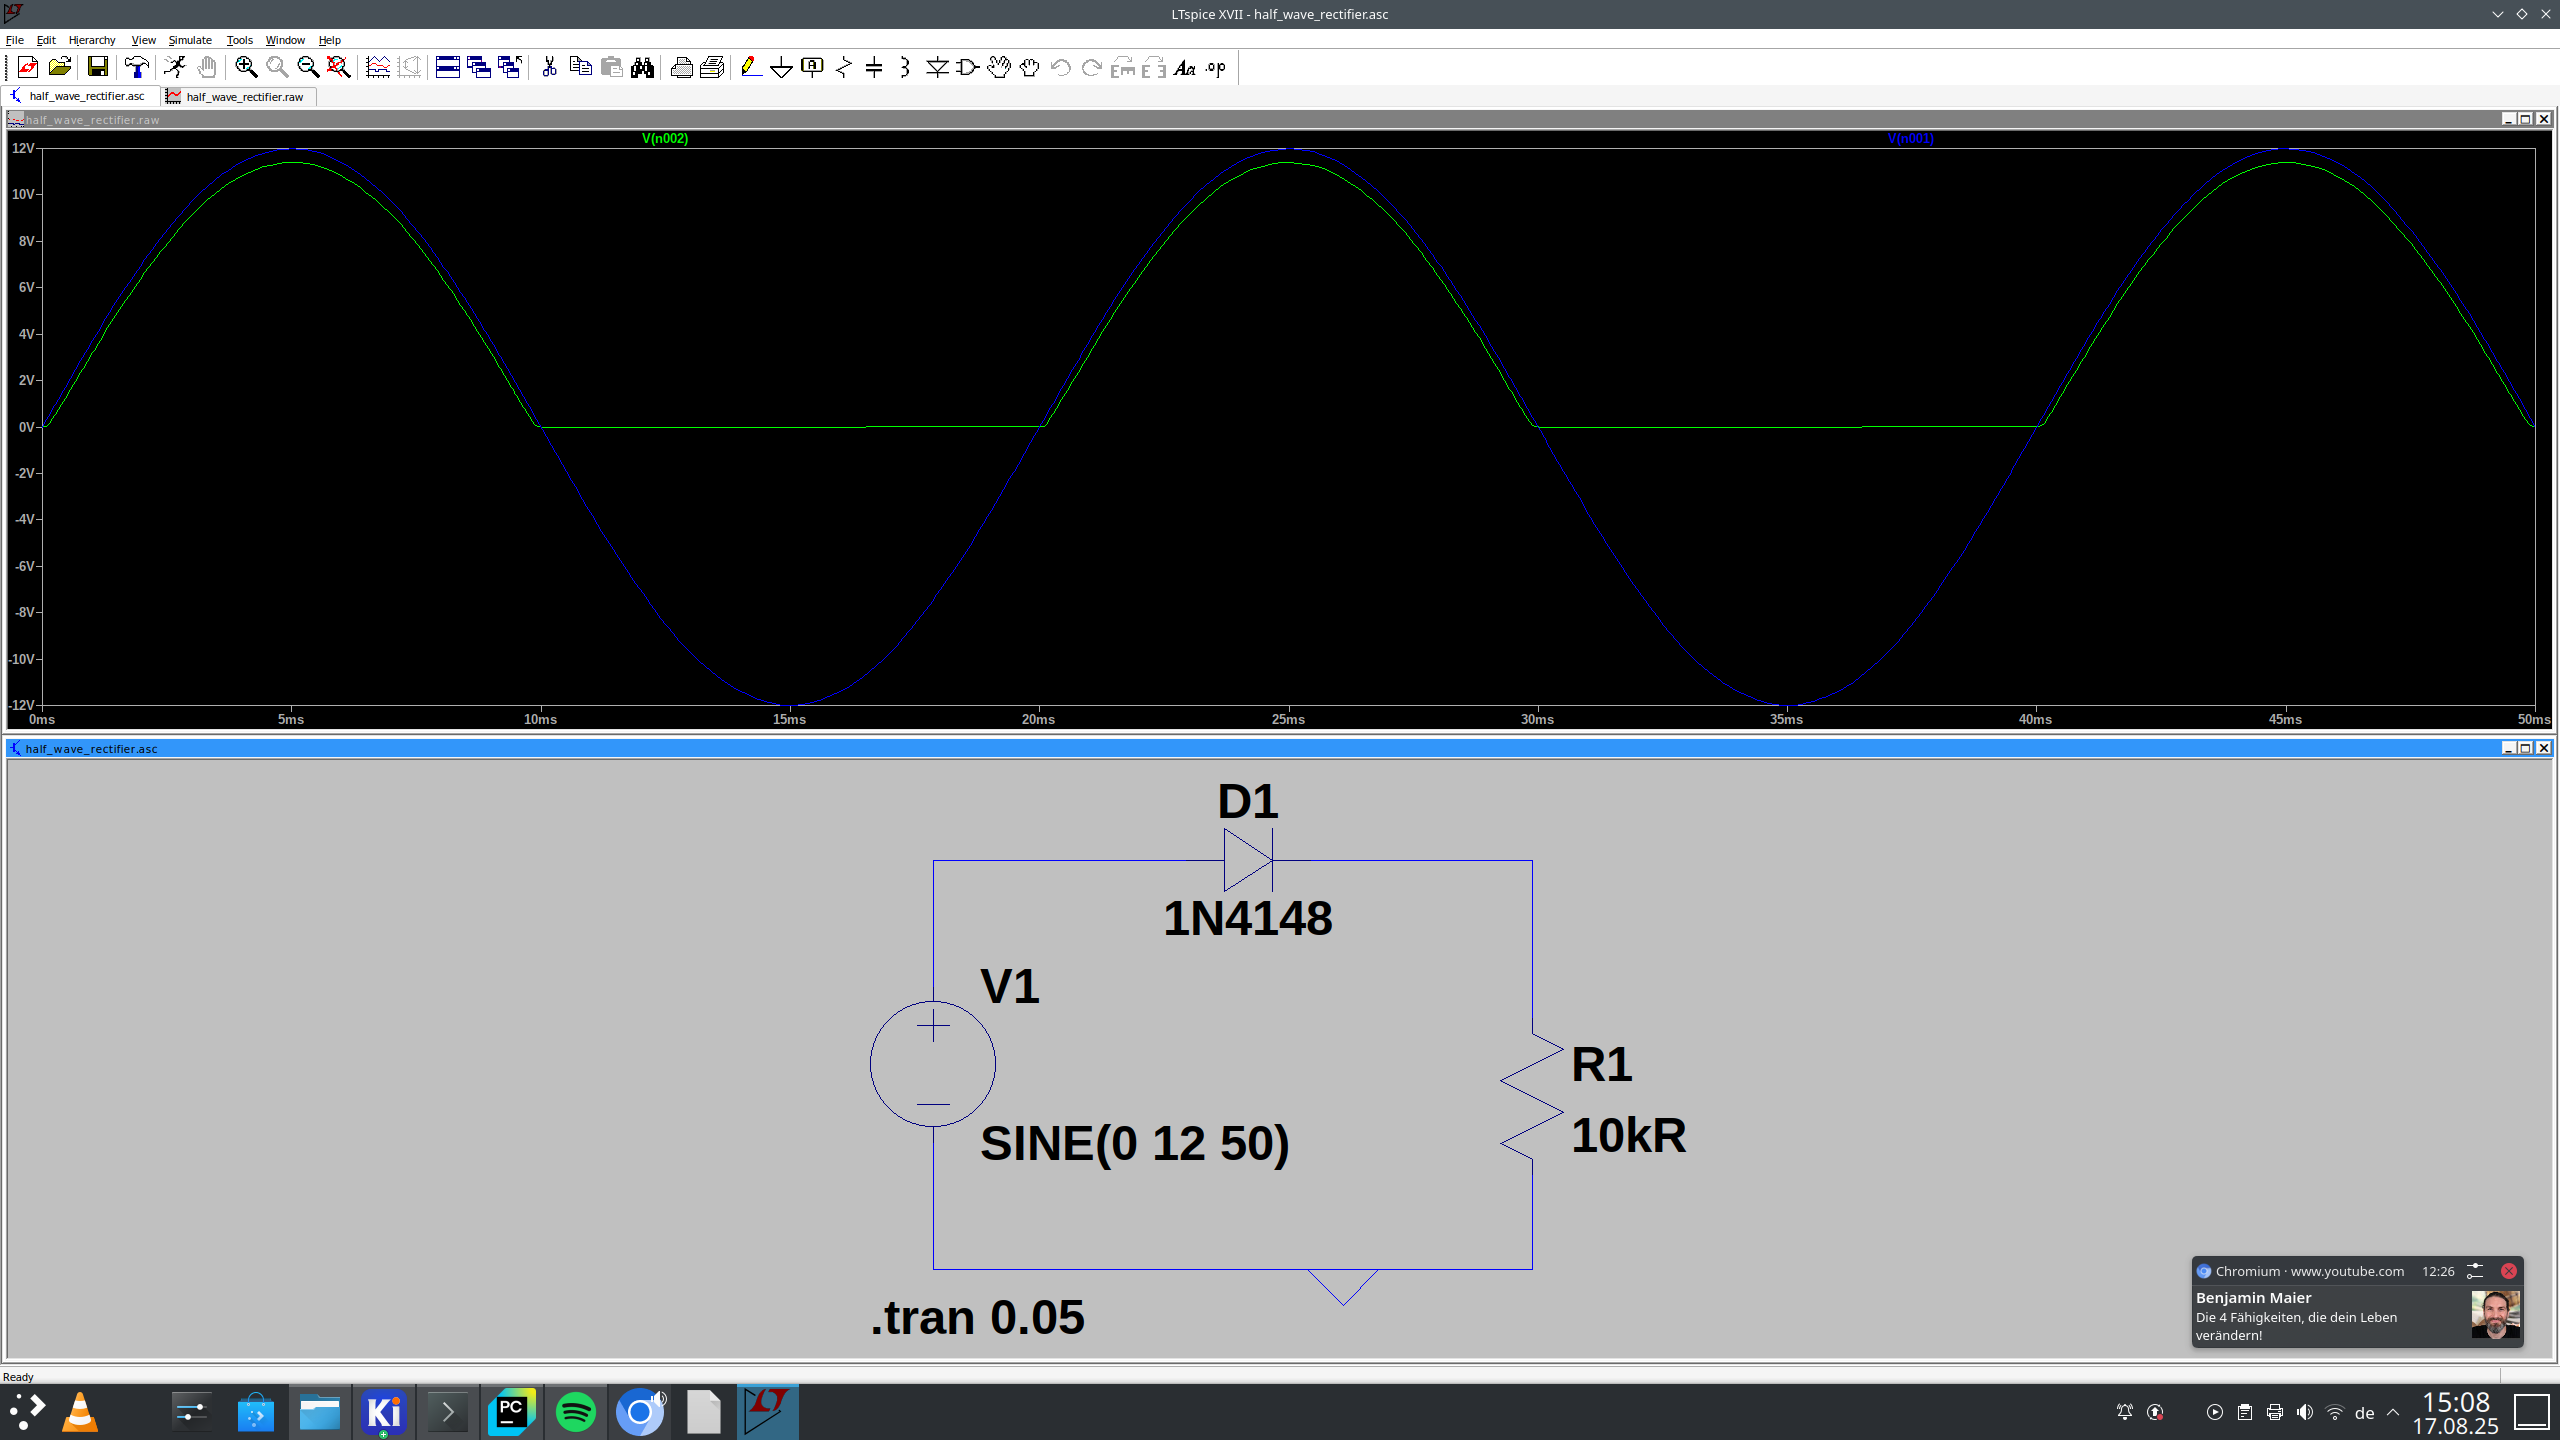
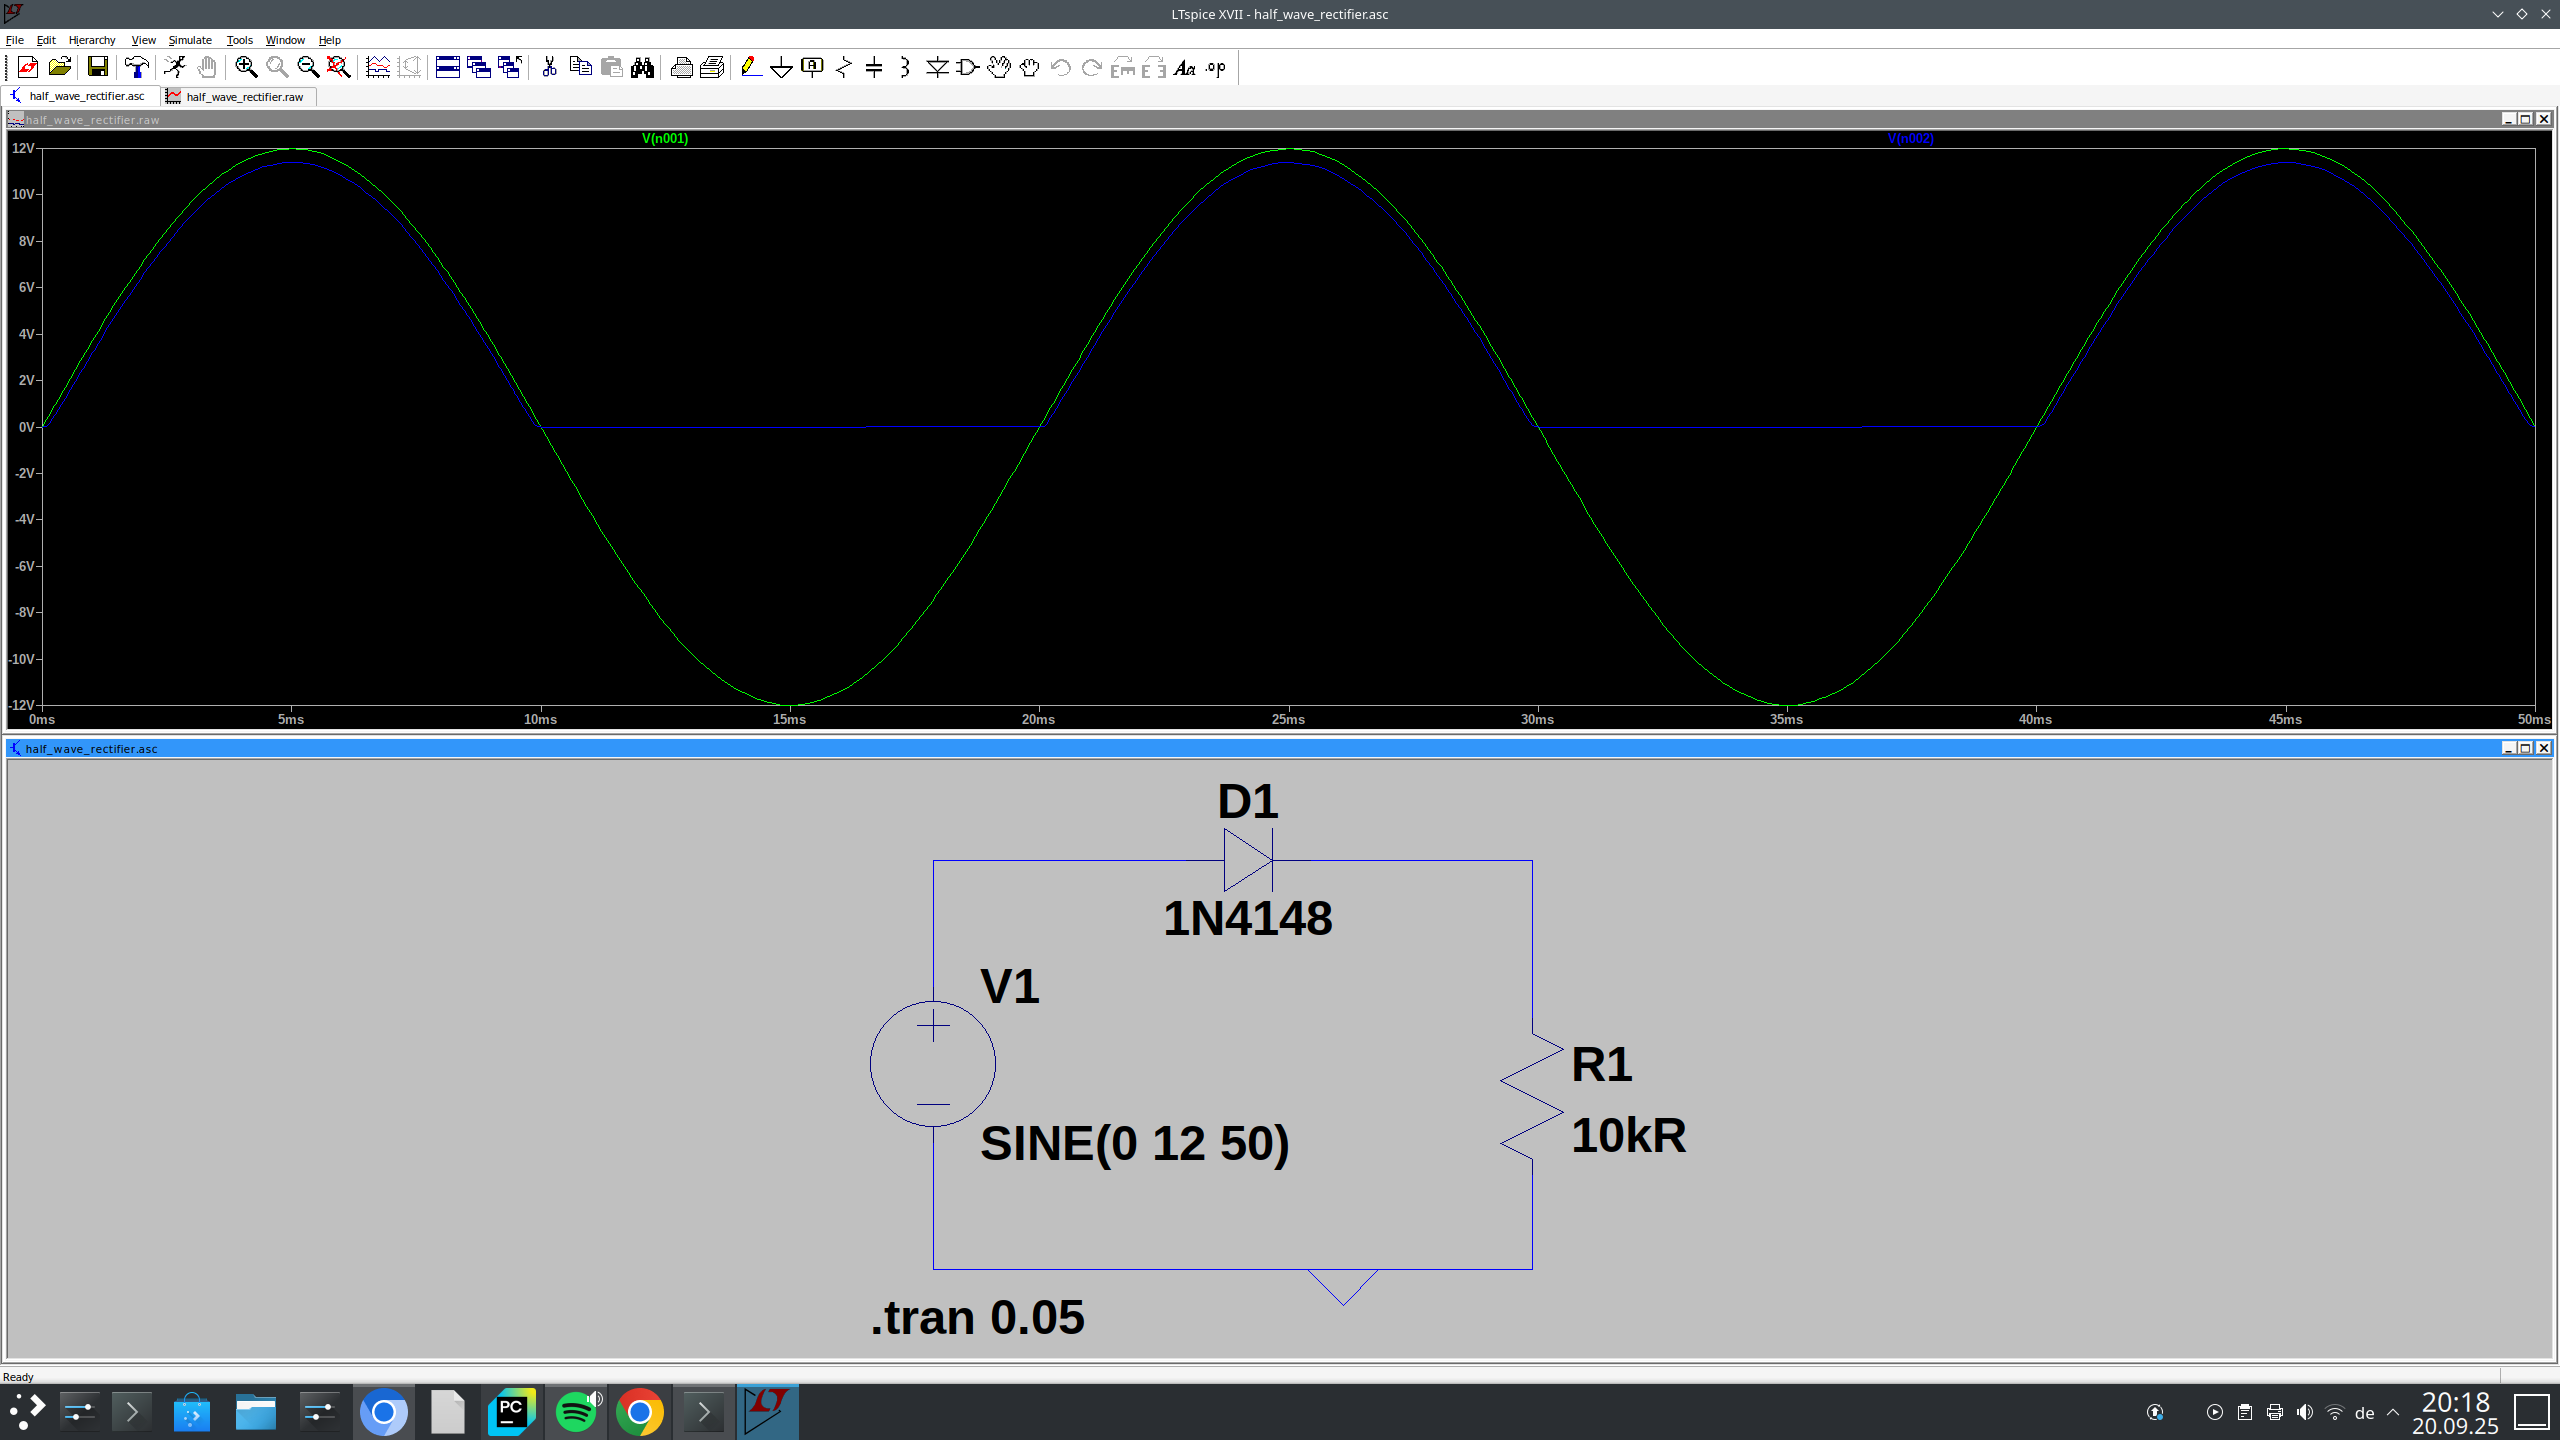
add more pages

diff --git a/themes/hugo-book/layouts/_partials/docs/header.html b/themes/hugo-book/layouts/_partials/docs/header.html
@@ -11,3 +11,6 @@
     {{ end }}
   </label>
 </div>
+<link rel="stylesheet" href="https://cdn.jsdelivr.net/npm/katex@0.16.11/dist/katex.min.css">
+<script defer src="https://cdn.jsdelivr.net/npm/katex@0.16.11/dist/katex.min.js"></script>
+<script defer src="https://cdn.jsdelivr.net/npm/katex@0.16.11/dist/contrib/auto-render.min.js" onload="renderMathInElement(document.body,{delimiters:[{left:'\\(',right:'\\)',display:false},{left:'\\[',right:'\\]',display:true}],throwOnError:false});"></script>
